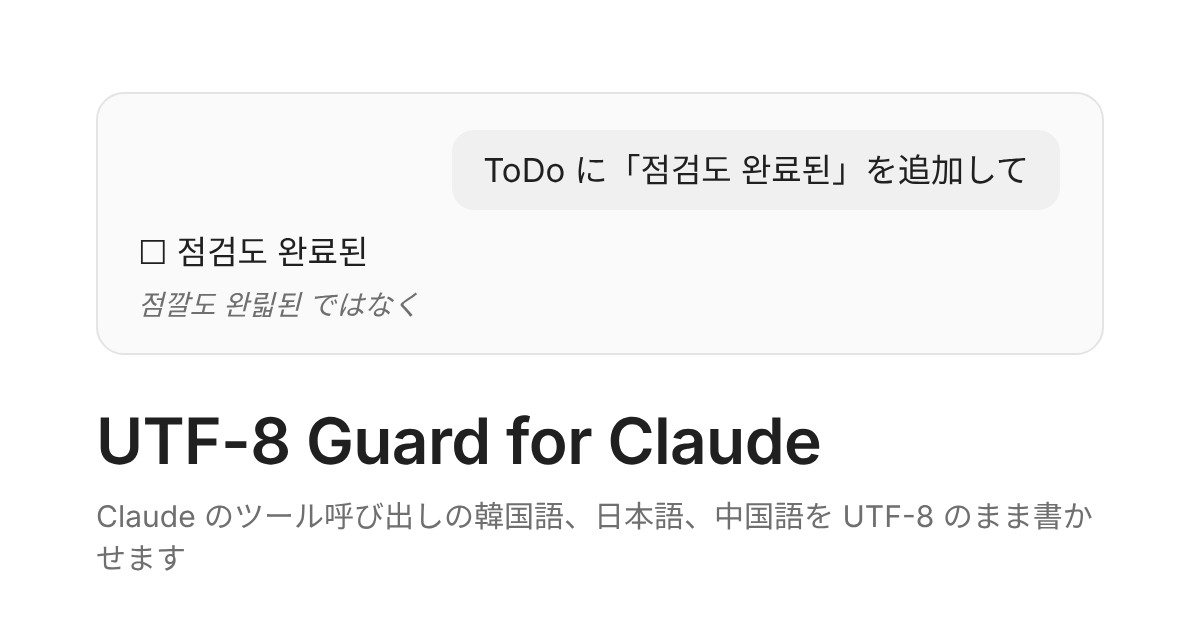
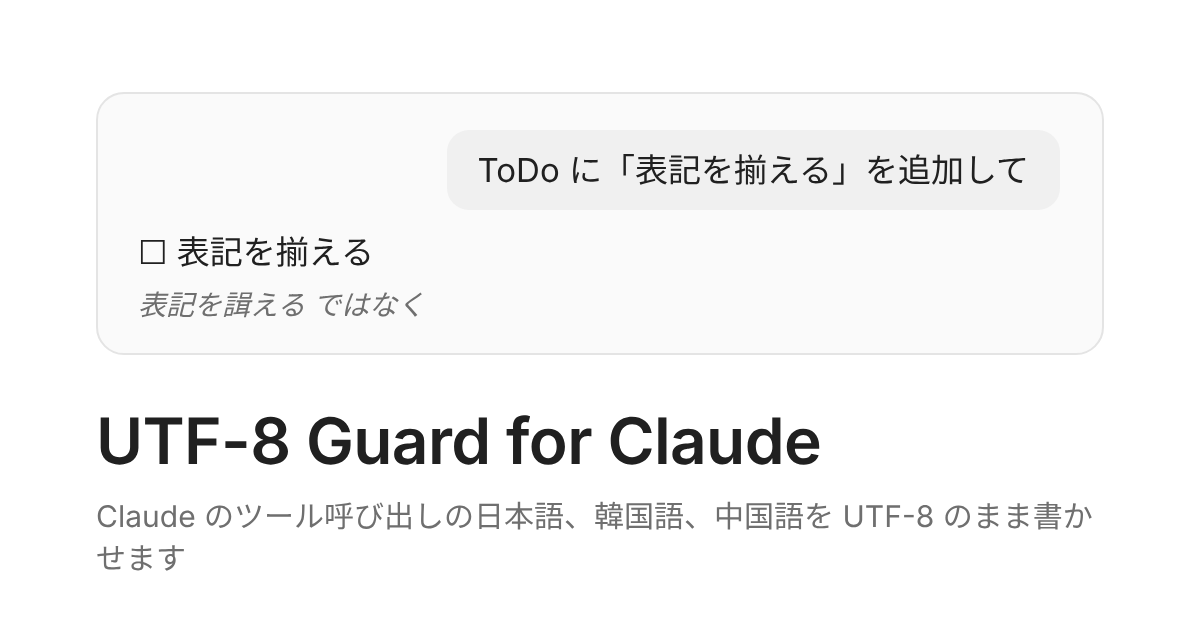
feat(hook): check kanji in Japanese text against JIS X 0208 (#2)
Japanese breaks the same way as Korean: anthropics/claude-code#54051
reported 揃え written as 諿え, 処分 as 処勭 and 側 as the simplified
Chinese 侧 in Notion MCP calls, and #59649 reported 叩き as 鯰し and
再起動 as 在控 in AskUserQuestion. Neither confirms an escape as the
cause, but the hook checks the result either way.

- in a string with kana, a kanji outside the 6,355 of JIS X 0208 holds
  the call back once, like a rare Hangul syllable; one wrong hex digit
  lands outside them about 66% of the time, and 4 of the 9 reported
  substitutions are caught (諿, 勭, 侧, 亿)
- a string with no kana may be Chinese and is not checked; 剝, 頰, 塡
  (2010 joyo) and 髙 are allowed
- "Check Japanese kanji" (kanji_check) in /config turns it off
- the Japanese page and README lead with a Japanese case instead of the
  Korean one, and every page and README lists #54051 and #59649

The tool that wrote the first version decodes \uXXXX in file content
(#72957): the READMEs showed the escaped tool input and the "\u200b"
example as decoded characters, one an invisible zero-width space, and
check.mjs held U+FFFD and its character ranges as raw characters. Those
are escapes again, and a test keeps the hook sources free of them.

Claude-Session: https://claude.ai/code/session_01STAJVfDXfyvDfStchumMu

diff --git a/README.en.md b/README.en.md
@@ -9,13 +9,13 @@
 
 A Claude Code plugin that stops Claude from turning Korean, Japanese and Chinese in tool calls into wrong characters by writing them as `\uXXXX` escapes.
 
-In tool calls such as AskUserQuestion, TodoWrite or a Notion or Jira MCP tool, Claude sometimes writes Korean as `\uXXXX` escapes instead of the characters. When it spells the hex wrong, the escape decodes to another real syllable, so nothing looks broken until someone reads it. At session start this plugin tells Claude to write UTF-8, and before each tool call it holds the call back once if its text looks broken. When the upstream issue is fixed, it tells you at session start that you can turn it off.
+In tool calls such as AskUserQuestion, TodoWrite or a Notion or Jira MCP tool, Claude sometimes writes Korean as `\uXXXX` escapes instead of the characters. When it spells the hex wrong, the escape decodes to another real syllable, so nothing looks broken until someone reads it. Japanese is reported to break the same way, such as `揃え` written as `諿え` and `側` as the simplified Chinese `侧`. At session start this plugin tells Claude to write UTF-8, and before each tool call it holds the call back once if its text looks broken. When the upstream issue is fixed, it tells you at session start that you can turn it off.
 
 **[Website](https://m1nu0x0.github.io/claude-utf8-guard/) · [Releases](https://github.com/M1nu0x0/claude-utf8-guard/releases) · [Changelog](CHANGELOG.md)**
 
 | Tool input Claude wrote | What shows on screen |
 | --- | --- |
-| `{"content": "점깔도 완릷된"}` (escapes, hex spelled wrong) | 점**깔**도 완**릷**된 |
+| `{"content": "\uc810\uae54\ub3c4 \uc644\ub9b7\ub41c"}` (escapes, hex spelled wrong) | 점**깔**도 완**릷**된 |
 | `{"content": "점검도 완료된"}` (UTF-8, as this plugin asks) | 점검도 완료된 |
 
 ## Why
@@ -23,6 +23,8 @@ In tool calls such as AskUserQuestion, TodoWrite or a Notion or Jira MCP tool, C
 Because of [anthropics/claude-code#83033](https://github.com/anthropics/claude-code/issues/83033) (*Sonnet 5 writes Korean tool-call parameters as \uXXXX escapes and mis-spells the hex*).
 
 Its reporter compared runs made to write a Korean tool call as escapes with runs made to write it in UTF-8. Every run that wrote escapes, 45 of 45, broke some of its Hangul (about 3 to 5% of the syllables); the UTF-8 runs broke 1 of 30 and 0 of 30. The broken characters are all real Hangul, such as `점검` → `점깔` and `코딩` → `코딅`, so they do not stand out the way U+FFFD does. Comments report the same with Opus 5 and with Notion and Jira MCP write tools.
+
+Japanese is affected too. [#54051](https://github.com/anthropics/claude-code/issues/54051) reported `揃え` → `諿え`, `処分` → `処勭`, `側` → `侧` and `億` → `亿` (both simplified Chinese) in Notion MCP calls, and [#59649](https://github.com/anthropics/claude-code/issues/59649) reported `叩き` → `鯰し`, `再起動` → `在控` and `鳴る` → `鳥る` in AskUserQuestion. Neither confirms that escapes caused them, so this plugin checks the result, not the cause.
 
 The answer on the Claude Code side was that the CLI decodes the escapes faithfully and cannot repair a wrong code point, and that the issue went to the model team. Most other reports of the same symptom were closed without a fix (see Related issues). Once #83033 is closed as fixed this plugin is no longer needed, and the repository will be archived. The plugin checks #83033 at session start, and CI checks it every day.
 
@@ -46,7 +48,7 @@ The hooks run on Node.js, so Node.js 18 or later must be on your `PATH`. It appl
 
 ## How it works
 
-1. **Session start (`SessionStart`)**: adds one instruction for Claude (`additionalContext`): write every non-ASCII character in a tool call as itself in UTF-8, never as a `\uXXXX` escape, except an escape that is part of code it is copying exactly (such as `""` in a source file). This is the workaround #83033 verified. It is added again on startup, resume, clear and compact.
+1. **Session start (`SessionStart`)**: adds one instruction for Claude (`additionalContext`): write every non-ASCII character in a tool call as itself in UTF-8, never as a `\uXXXX` escape, except an escape that is part of code it is copying exactly (such as `"\u200b"` in a source file). This is the workaround #83033 verified. It is added again on startup, resume, clear and compact.
 2. **Before a tool call (`PreToolUse`)**: checks every string in the input (table below). On a hit it denies the call, tells Claude which characters and where, and shows you one line (`systemMessage`). The same call sent again unchanged in the same session goes through, so a rare word you meant costs one round trip and never blocks the work.
 3. **The upstream issue**: the session-start hook only reads a cache in the plugin's data folder (`CLAUDE_PLUGIN_DATA`), so it never waits on the network. When the cache is a day old, a background process asks the GitHub API for the state of #83033 once and saves it for the next session. When #83033 is closed as **completed**, a new session (startup) shows this. Closed as not planned or stale does not mean fixed, so it says nothing then.
 
@@ -63,15 +65,16 @@ Claude Code decodes the JSON the model wrote before it hands the input to a hook
 | Symptom | Example | Check | This plugin |
 | --- | --- | --- | --- |
 | A wrong hex digit lands on a rare syllable | `완료` → `완릷`, `코딩` → `코딅`, `멀쩡` → `멀잩` | Hangul syllables outside the 2,350 of KS X 1001 (EUC-KR) | Catches about 70% of single wrong digits |
+| A wrong kanji lands on a rare kanji | `揃え` → `諿え`, `処分` → `処勭`, `側` → `侧` (simplified) | In text with kana, kanji outside the 6,355 of JIS X 0208 (Shift_JIS) | Catches about 66% of single wrong digits. Text with no kana (which may be Chinese) is not checked |
 | Half a surrogate pair | a lone `\uD83A`, which the API rejects with a 400 that stops the session | An unpaired U+D800 to U+DFFF | Catches |
 | A failed decode | `한�글` | U+FFFD | Catches |
-| An escape left as text | AskUserQuestion shows `점검` | `\uXXXX` text for Hangul, kana or CJK, in tools that are not code tools | Catches |
+| An escape left as text | AskUserQuestion shows `\uc810\uac80` | `\uXXXX` text for Hangul, kana or CJK, in tools that are not code tools | Catches |
 | A wrong hex digit lands on a common syllable | `잡히지` → `잡힐지`, `점검` → `점깔` | No way to tell | Does not; the instruction only prevents |
-| A wrong kanji or hanzi | another real, similar-looking character | Another real character | Does not; the instruction only prevents |
+| A wrong kanji lands on a common kanji | `鳴る` → `鳥る`, `再起動` → `在控`, wrong hanzi in Chinese text | Another real character | Does not; the instruction only prevents |
 | A glitch mid-escape breaks the JSON | #79339 | Claude Code rejects the call before any hook runs (#93311) | Does not; the instruction only prevents |
 | A wrong syllable with no escape | `새벽` → `새벅` (#83033, 0.3 to 0.4% of runs) | Caught only outside KS X 1001 | Some |
 
-The rare-syllable check also stops on real words such as `똠`, `햏`, `뷁` or `쌰`. Claude then reads why and sends the same call again, which goes through, or you can turn this one check off below. Tools that only read, such as Read, Glob and Grep, are not checked. In tools that handle code, such as Write, Edit and Bash, a `\uXXXX` written as text is taken as meant and not checked.
+The rare-syllable check also stops on real words such as `똠`, `햏`, `뷁` or `쌰`, and the kanji check on name kanji outside JIS X 0208. The 2010 joyo additions `剝`, `頰` and `塡`, and `髙`, common in names, are allowed in advance. Claude then reads why and sends the same call again, which goes through, or you can turn this one check off below. Tools that only read, such as Read, Glob and Grep, are not checked. In tools that handle code, such as Write, Edit and Bash, a `\uXXXX` written as text is taken as meant and not checked.
 
 ## Settings and turning it off
 
@@ -81,6 +84,7 @@ Change them under utf8-guard in `/config` (or `/plugin`). They are saved under `
 | --- | --- | --- |
 | Notify when fixed upstream (`upstream_check`) | On | Does not ask GitHub, and shows no notice when the issue is fixed |
 | Check Korean syllables (`hangul_check`) | On | Only the rare-syllable check stops; the surrogate, U+FFFD and escape-as-text checks and the session-start instruction stay |
+| Check Japanese kanji (`kanji_check`) | On | Only the rare-kanji check in Japanese text stops |
 
 To turn the whole plugin off run `claude plugin disable utf8-guard`; to remove it, `claude plugin uninstall utf8-guard`.
 
@@ -106,9 +110,10 @@ Badges show each issue's current state (open/closed).
 | [anthropics/claude-code#79339](https://github.com/anthropics/claude-code/issues/79339) | ![](https://img.shields.io/github/issues/detail/state/anthropics/claude-code/79339?label=) | A `\` and a raw CJK character in the middle of an escape make the whole tool input unparsable |
 | [anthropics/claude-code#61670](https://github.com/anthropics/claude-code/issues/61670) | ![](https://img.shields.io/github/issues/detail/state/anthropics/claude-code/61670?label=) | A lone `\uD83A` and garbled Korean in AskUserQuestion end the session |
 | [anthropics/claude-code#69522](https://github.com/anthropics/claude-code/issues/69522) | ![](https://img.shields.io/github/issues/detail/state/anthropics/claude-code/69522?label=) | Long escaped tool arguments fail to parse as JSON |
+| [anthropics/claude-code#54051](https://github.com/anthropics/claude-code/issues/54051) | ![](https://img.shields.io/github/issues/detail/state/anthropics/claude-code/54051?label=) | Wrong kanji, some simplified Chinese, in Japanese written through Notion MCP tools (`揃え` → `諿え`, `側` → `侧`). Escapes are only a guess at the cause |
 | [anthropics/claude-code#56003](https://github.com/anthropics/claude-code/issues/56003) | ![](https://img.shields.io/github/issues/detail/state/anthropics/claude-code/56003?label=) | Japanese shown as raw `\uXXXX` in AskUserQuestion |
 | [anthropics/claude-code#78568](https://github.com/anthropics/claude-code/issues/78568) | ![](https://img.shields.io/github/issues/detail/state/anthropics/claude-code/78568?label=) | Wrong characters in Traditional Chinese output |
-| [anthropics/claude-code#59649](https://github.com/anthropics/claude-code/issues/59649) | ![](https://img.shields.io/github/issues/detail/state/anthropics/claude-code/59649?label=) | Similar-looking but wrong kanji in Japanese output (Opus 4.7) |
+| [anthropics/claude-code#59649](https://github.com/anthropics/claude-code/issues/59649) | ![](https://img.shields.io/github/issues/detail/state/anthropics/claude-code/59649?label=) | Similar-looking but wrong kanji in AskUserQuestion (`叩き` → `鯰し`, `再起動` → `在控`); the reporter saw no escapes (Opus 4.7) |
 
 **The same escapes, from a tool**
 
@@ -142,6 +147,7 @@ plugins/utf8-guard/
     pre-tool-use.mjs    holds back a call that fails a check, once
     check.mjs           the checks (pure functions)
     hangul.mjs          the 2,350 Hangul syllables of KS X 1001
+    kanji.mjs           the 6,355 kanji of JIS X 0208
     upstream.mjs        the #83033 state cache and the GitHub request
     common.mjs          reading the input, options, the data folder
   tests/                tests for node --test
@@ -165,7 +171,7 @@ cd site && npm run dev                        # local preview
 cd site && npm run og                         # per-language link-preview images (needs Playwright)
 ```
 
-`hooks/hangul.mjs` was made by decoding the EUC-KR bytes B0A1 to C8FE; the tests make it again the same way and compare.
+`hooks/hangul.mjs` was made by decoding the EUC-KR bytes B0A1 to C8FE, and `hooks/kanji.mjs` the EUC-JP bytes B0A1 to F4FE; the tests make it again the same way and compare.
 
 The site is built with [Astro](https://astro.build) and the shared kit [claude-plugin-site](https://github.com/M1nu0x0/claude-plugin-site). All its words are in `site/src/site.json`, and the order of the sections is in `site/src/pages/[...lang].astro`. `npm run build` writes one page per language (`/`, `/ko/`, `/ja/`) and `sitemap.xml`, then checks them as a crawler reads them (title and description length, canonical, hreflang, Open Graph, JSON-LD, broken links and images, HTML validity) and fails on any problem. A merge to main builds and deploys it with the Pages workflow. The page's JSON-LD carries the plugin version, so a version bump redeploys the site. When the words change, set `updated` in `site/src/site.json` to that day; CI warns on a pull request that does not. When `ask`, `answer`, `ogImageLine` or `ogImageText` change, redraw `site/public/images/og*.png` with `npm run og` and commit them.
 
@@ -174,7 +180,7 @@ To release, merge a PR that bumps `version` in `plugins/utf8-guard/.claude-plugi
 ## Limits
 
 - Claude Code only. The hooks need Node.js 18 or later; without Node the hooks fail and check nothing (calls are not blocked).
-- Claude may not follow the session-start instruction. The hooks only see the result, so a common syllable and a wrong kanji get through.
+- Claude may not follow the session-start instruction. The hooks only see the result, so a wrong character that is itself common, and wrong hanzi in Chinese text, get through.
 - The PreToolUse hook starts one Node process for every tool call.
 - The upstream check calls the GitHub API once a day without authentication. When it fails, the last known state is kept and it tries again a day later.
 

diff --git a/CHANGELOG.md b/CHANGELOG.md
@@ -9,9 +9,9 @@ All notable changes to this project are recorded here. The format follows [Keep 
 ### Added
 
 - A SessionStart hook that tells Claude to write every non-ASCII character in a tool call as itself in UTF-8, never as a `\uXXXX` escape, the workaround verified in [anthropics/claude-code#83033](https://github.com/anthropics/claude-code/issues/83033)
-- A PreToolUse hook that holds a tool call back once when its input has a Hangul syllable outside the 2,350 of KS X 1001, half a surrogate pair, U+FFFD, or, outside code tools, a `\uXXXX` for Hangul, kana or CJK written out as text; it tells Claude which characters and where, shows one line to the person, and lets the same call through when it is sent again unchanged
+- A PreToolUse hook that holds a tool call back once when its input has a Hangul syllable outside the 2,350 of KS X 1001, a kanji outside the 6,355 of JIS X 0208 in text with kana (wrong kanji such as 諿 for 揃 and simplified Chinese forms such as 侧 for 側, reported in [#54051](https://github.com/anthropics/claude-code/issues/54051)), half a surrogate pair, U+FFFD, or, outside code tools, a `\uXXXX` for Hangul, kana or CJK written out as text; it tells Claude which characters and where, shows one line to the person, and lets the same call through when it is sent again unchanged
 - Once a day, in the background, the session-start hook asks GitHub whether #83033 is closed as completed, and when it is, says at session start that the plugin can be turned off
-- Two options in `/config`: "Notify when fixed upstream" and "Check Korean syllables", both on by default
+- Three options in `/config`: "Notify when fixed upstream", "Check Korean syllables" and "Check Japanese kanji", all on by default
 - Tests under Node 18 and 24, and CI on Ubuntu, Windows and macOS that validates the marketplace and the plugin, runs the tests, and starts the real Claude Code without a login to check that the SessionStart hook runs; it runs daily against the latest Claude Code and reports the state of #83033
 - A check that a release tag matches the plugin's version, and Dependabot updates for GitHub Actions and the site
 - GitHub Pages site and READMEs in Korean, English and Japanese, with every related upstream issue and its live state
